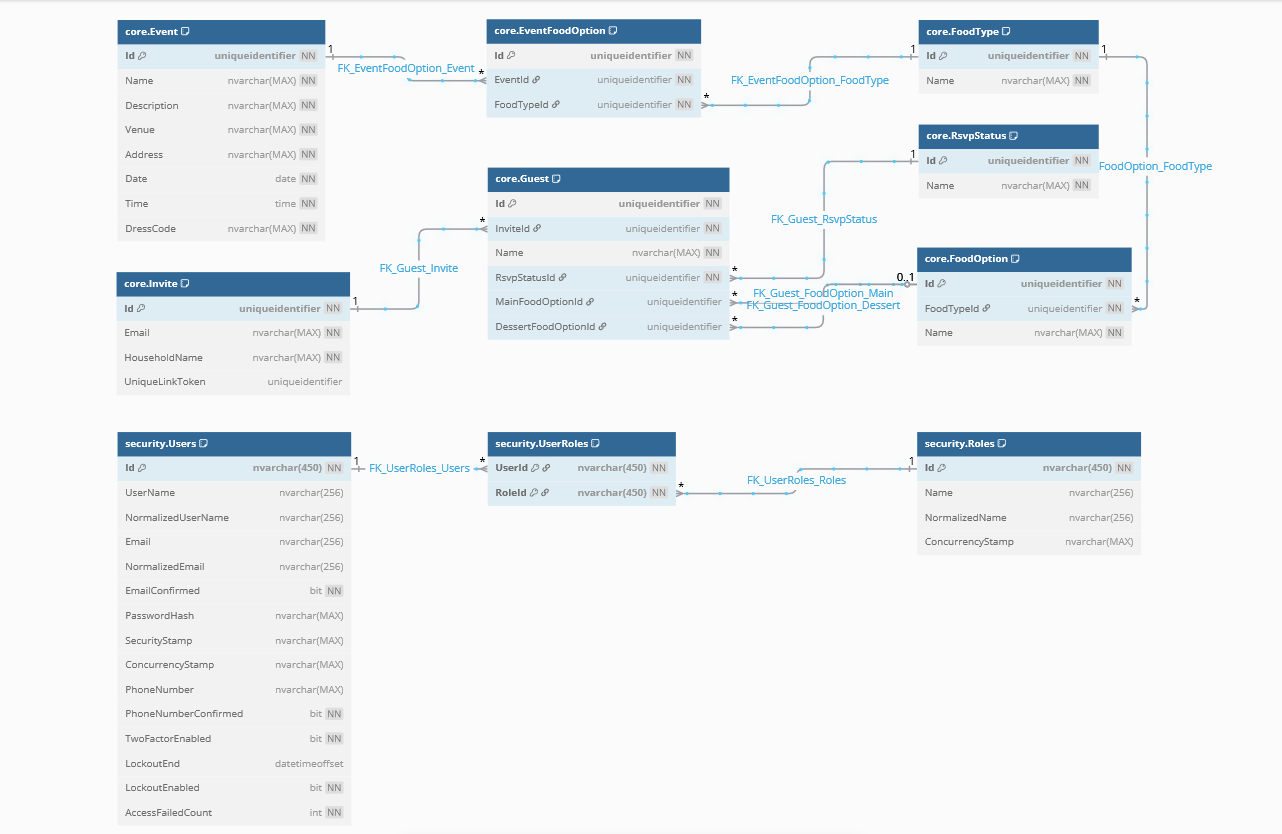
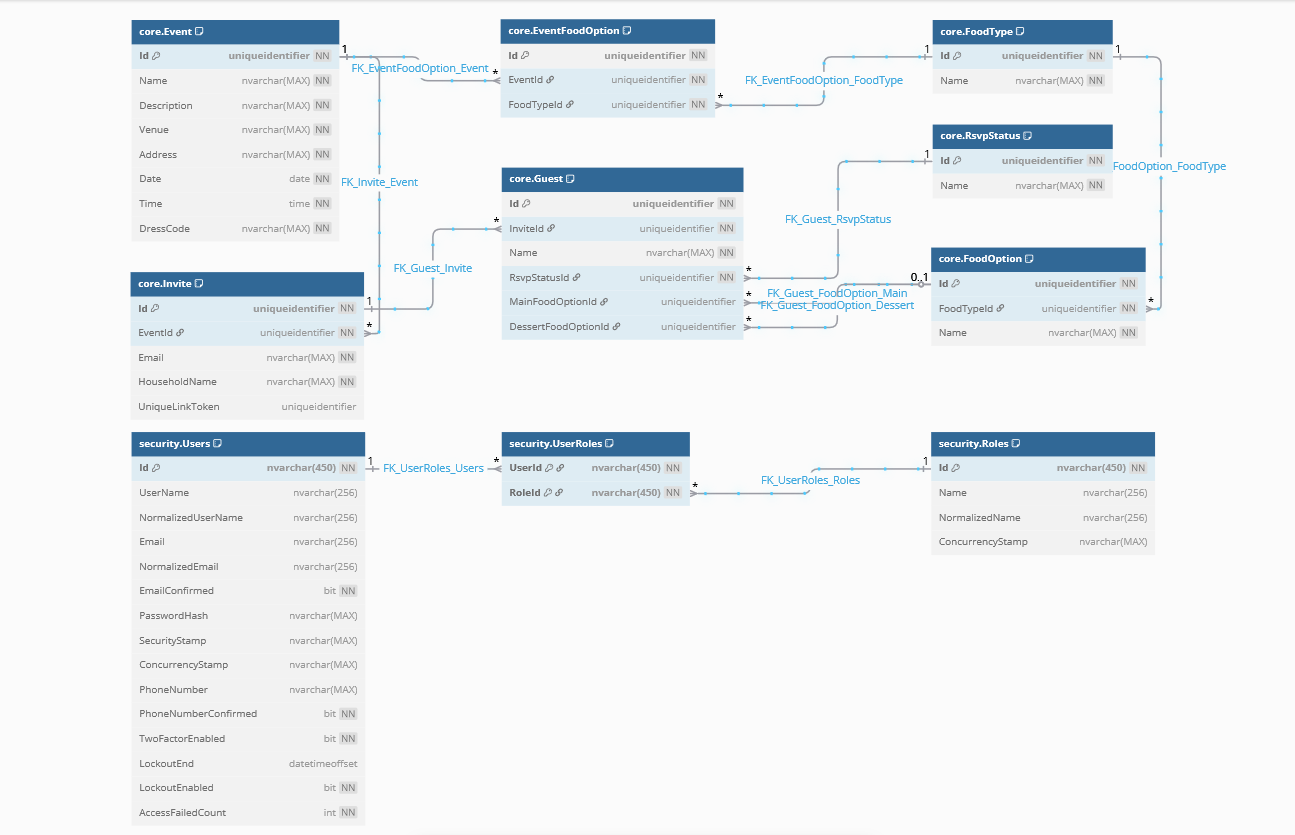
Added Invite entity and configuration
Updated readme so include missing relationship

diff --git a/src/WeddingRsvp.Application/Database/Configurations/InviteConfiguration.cs b/src/WeddingRsvp.Application/Database/Configurations/InviteConfiguration.cs
@@ -1,0 +1,22 @@
+using Microsoft.EntityFrameworkCore;
+using Microsoft.EntityFrameworkCore.Metadata.Builders;
+using WeddingRsvp.Application.Database.Constants;
+using WeddingRsvp.Application.Entities;
+
+namespace WeddingRsvp.Application.Database.Configurations;
+
+internal sealed class InviteConfiguration : IEntityTypeConfiguration<Invite>
+{
+    public void Configure(EntityTypeBuilder<Invite> builder)
+    {
+        builder.ToTable(TableConstants.Event, SchemaConstants.Core);
+
+        builder.HasKey(pk =>  pk.Id);
+
+        builder.Property(p => p.Email)
+               .IsRequired();
+
+        builder.Property(p => p.HouseholdName)
+               .IsRequired();
+    }
+}

diff --git a/src/WeddingRsvp.Application/Entities/Event.cs b/src/WeddingRsvp.Application/Entities/Event.cs
@@ -1,20 +1,15 @@
 namespace WeddingRsvp.Application.Entities;
 
-public class Event
+public sealed class Event
 {
     public required Guid Id { get; set; }
-
     public required string Name { get; set; }
-
     public string Description { get; set; } = string.Empty;
-
     public required string Venue { get; set; }
-
     public required string Address { get; set; }
-
     public required DateOnly Date { get; set; }
-
     public required TimeOnly Time { get; set; }
-
     public string DressCode { get; set; } = string.Empty;
+
+    public ICollection<Invite>? Invites { get; }
 }

diff --git a/src/WeddingRsvp.Application/Entities/Invite.cs b/src/WeddingRsvp.Application/Entities/Invite.cs
@@ -1,0 +1,12 @@
+namespace WeddingRsvp.Application.Entities;
+
+public sealed class Invite
+{
+    public required Guid Id { get; set; }
+    public required string Email { get; set; }
+    public required string HouseholdName { get; set; }
+    public Guid? UniqueLinkToken { get; set; }
+
+    public Guid EventId { get; set; }
+    public Event? Event { get; set; }
+}

diff --git a/src/WeddingRsvp.Application/Database/Configurations/EventConfiguration.cs b/src/WeddingRsvp.Application/Database/Configurations/EventConfiguration.cs
@@ -27,5 +27,10 @@ internal sealed class EventConfiguration : IEntityTypeConfiguration<Event>
 
         builder.Property(p => p.Time)
                .IsRequired();
+
+        builder.HasMany(e => e.Invites)
+               .WithOne(i => i.Event)
+               .HasForeignKey(fk => fk.EventId)
+               .OnDelete(DeleteBehavior.Cascade);
     }
 }

diff --git a/src/WeddingRsvp.Application/Database/ApplicationDbContext.cs b/src/WeddingRsvp.Application/Database/ApplicationDbContext.cs
@@ -7,7 +7,7 @@ internal class ApplicationDbContext : DbContext
 {
     public ApplicationDbContext(DbContextOptions<ApplicationDbContext> options) : base(options)
     {
-        // Empty Constructot.
+        // Empty constructor.
     }
 
     public DbSet<Event> Events { get; set; }

diff --git a/src/WeddingRsvp.Application/Database/Constants/TableConstants.cs b/src/WeddingRsvp.Application/Database/Constants/TableConstants.cs
@@ -3,4 +3,5 @@
 internal static class TableConstants
 {
     public const string Event = "Event";
+    public const string Invite = "Invite";
 }

diff --git a/README.md b/README.md
@@ -44,6 +44,7 @@ A modern wedding invitation and RSVP management system built with .NET 9, React,
 - Invite
 
   - Id (GUID, PRIMARY KEY)
+  - EventId (GUID, FOREIGN KEY)
   - Email (NVARCHAR, UNIQUE)
   - HouseholdName (NVARCHAR)
   - UniqueLinkToken (GUID, NULL)
